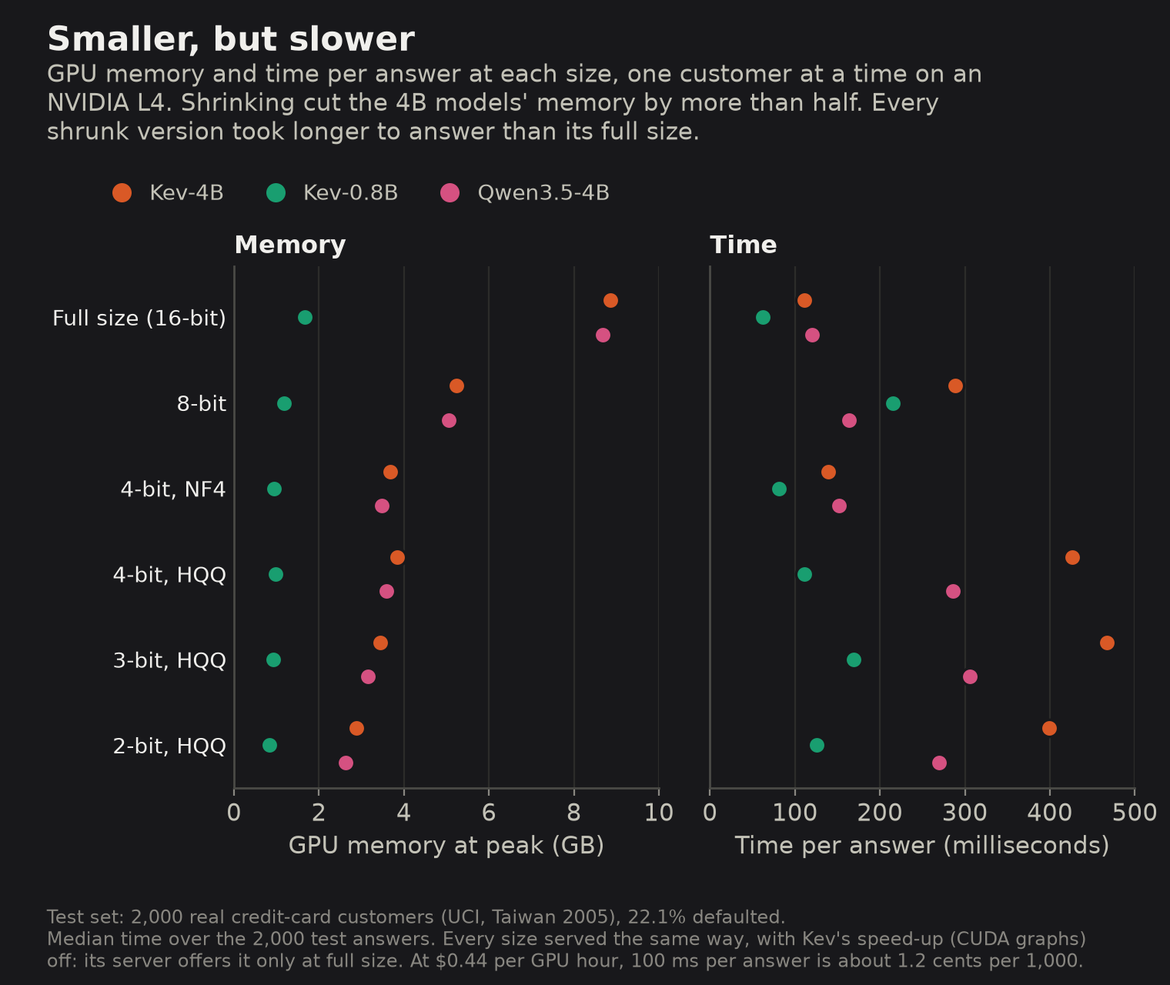
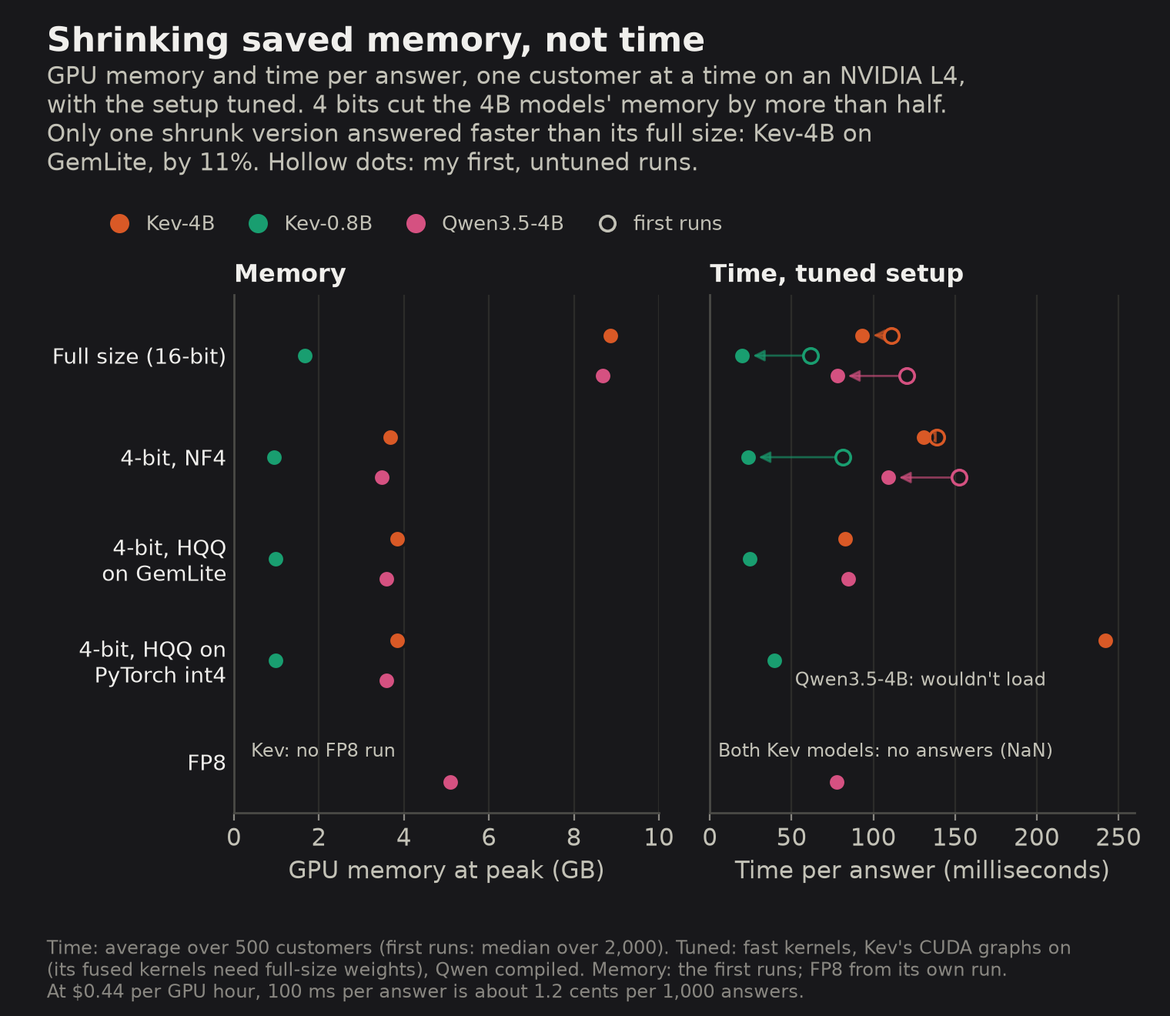
Post 4, version 2: speed section rewritten from the tuned re-runs; cost chart redrawn
New title ("I shrank AI models. It saved memory, not time.") and subtitle. The speed
section reports session S: the setup mattered more than size, NF4 18-40% slower,
GemLite faster only for Kev-4B (11%), FP8 level with Qwen's full size, three
recorded failures. post4_cost now shows time on the tuned setup with the first
runs as hollow dots. Four speed predictions, a bank bullet, speed limitations and
the re-run method added. Review copy version 2 is blog PR #48.

diff --git a/analysis/quantization_figures.py b/analysis/quantization_figures.py
@@ -7,7 +7,8 @@
   in by chance; the 2-bit values are off the scale and written out.
 - post4_drift.png: Kev-0.8B's answer for each test customer, full size against four shrunk
   versions, with how far the answers moved and the ranking and honesty that hid it.
-- post4_cost.png: GPU memory at peak and median time per answer at each size.
+- post4_cost.png: GPU memory at peak and time per answer on the tuned setup (the speed addendum,
+  results/speed_throughput.csv), with the first runs' times for the same weights as hollow dots.
 
     uv run python analysis/quantization_figures.py drift cost   # only these
 
@@ -240,49 +241,97 @@ def drift(dark: bool = False) -> Path:
     return F.save(fig, "post4_drift.png")
 
 
-# ---- 4. memory and time per answer ---------------------------------------------------------------
+# ---- 4. memory and time per answer, on the tuned setup (the speed addendum) ---------------------
 
 COST_DY = {"kev-4b-ft": -0.2, "kev-0.8b-ft": 0.0, "qwen-ft": 0.2}  # row offsets, so dots don't hide
+SPEED_ROWS = (  # (speed tag, post 4 weights it uses, row label)
+    ("bf16-tuned", "bf16", "Full size (16-bit)"),
+    ("bnb-nf4-tuned", "bnb-nf4", "4-bit, NF4"),
+    ("hqq-4-gemlite", "hqq-4", "4-bit, HQQ\non GemLite"),
+    ("hqq-4-aoint4", "hqq-4", "4-bit, HQQ on\nPyTorch int4"),
+    ("fp8-dynamic", None, "FP8"),
+)
+SPEED_THROUGHPUT = Q.ROOT / "results" / "speed_throughput.csv"
+SPEED_CSV = Q.ROOT / "results" / "speed.csv"
+
+
+@cache
+def speed_ms() -> dict[str, float]:
+    """Average time per answer, one customer at a time, on the tuned setup: {contestant: ms}."""
+    with SPEED_THROUGHPUT.open(encoding="utf-8") as f:
+        return {r["contestant"]: 1000 / float(r["customers_per_second"])
+                for r in csv.DictReader(f) if r["batch"] == "1"}  # fmt: skip
+
+
+@cache
+def speed_peak_gib() -> dict[str, float]:
+    with SPEED_CSV.open(encoding="utf-8") as f:
+        return {r["contestant"]: float(r["gpu_peak_gb"]) for r in csv.DictReader(f)}
 
 
 def cost(dark: bool = False) -> Path:
     F.set_theme(dark)
     plt = F.plt
-    fig, (left, right) = plt.subplots(1, 2, figsize=(7.6, 6.4), sharey=True)
-    fig.subplots_adjust(left=0.2, right=0.97, top=0.73, bottom=0.2, wspace=0.12)
+    fig, (left, right) = plt.subplots(1, 2, figsize=(7.6, 6.6), sharey=True)
+    fig.subplots_adjust(left=0.2, right=0.97, top=0.71, bottom=0.2, wspace=0.12)
+    ms, peak = speed_ms(), speed_peak_gib()
     for model, key, _name in MODELS:
         col = F.COLOR[key]
-        for y, size in enumerate(SIZES):
+        for y, (tag, base, _label) in enumerate(SPEED_ROWS):
             yy = y + COST_DY[model]
-            left.plot(GB * value(model, size, "gpu_peak_gb"), yy, "o", ms=8, color=col,
-                      mec=F.SURFACE, mew=1.2, zorder=3)  # fmt: skip
-            right.plot(value(model, size, "latency_ms_median"), yy, "o", ms=8, color=col,
-                       mec=F.SURFACE, mew=1.2, zorder=3)  # fmt: skip
+            # Memory: the first runs' measurement of the same weights (every version served the
+            # same way there); FP8 has no first run, so its own run (Qwen, in-process).
+            gib = value(model, base, "gpu_peak_gb") if base else peak.get(f"{model}-{tag}")
+            if gib is not None:
+                left.plot(GB * gib, yy, "o", ms=8, color=col, mec=F.SURFACE, mew=1.2, zorder=3)
+            t = ms.get(f"{model}-{tag}")
+            if t is not None:
+                right.plot(t, yy, "o", ms=8, color=col, mec=F.SURFACE, mew=1.2, zorder=3)
+            if tag in ("bf16-tuned", "bnb-nf4-tuned"):  # the same weights, timed in the first runs
+                t0 = value(model, base, "latency_ms_median")
+                right.plot(t0, yy, "o", ms=7, mfc="none", mec=col, mew=1.3, zorder=3)
+                right.annotate("", (t, yy), xytext=(t0, yy), zorder=2,
+                               arrowprops={"arrowstyle": "-|>", "color": col, "lw": 1,
+                                           "alpha": 0.6, "shrinkA": 4, "shrinkB": 5})  # fmt: skip
+    failed = {"hqq-4-aoint4": (COST_DY["qwen-ft"], "Qwen3.5-4B: wouldn't load"),
+              "fp8-dynamic": (-0.1, "Both Kev models: no answers (NaN)")}  # fmt: skip
+    for y, (tag, _base, _label) in enumerate(SPEED_ROWS):
+        if tag in failed:
+            dy, text = failed[tag]
+            x0 = 5 if tag == "fp8-dynamic" else 52
+            right.text(x0, y + dy, text, fontsize=8.5, color=F.INK_2, va="center")
+    left.text(0.4, len(SPEED_ROWS) - 1 - 0.1, "Kev: no FP8 run", fontsize=8.5, color=F.INK_2,
+              va="center")  # fmt: skip
     for ax in (left, right):
         ax.grid(axis="y", visible=False)
         ax.tick_params(axis="y", length=0, labelsize=10, labelcolor=F.INK)
-    left.set_yticks(range(len(SIZES)), [ROW[s] for s in SIZES])
-    left.set_ylim(len(SIZES) - 0.5, -0.6)
+    left.set_yticks(range(len(SPEED_ROWS)), [label for _t, _b, label in SPEED_ROWS])
+    left.set_ylim(len(SPEED_ROWS) - 0.5, -0.6)
     left.set_xlim(0, 10)
     left.set_xlabel("GPU memory at peak (GB)")
-    right.set_xlim(0, 500)
+    right.set_xlim(0, 260)
     right.set_xlabel("Time per answer (milliseconds)")
     left.set_title("Memory", loc="left", fontsize=11.5)
-    right.set_title("Time", loc="left", fontsize=11.5)
+    right.set_title("Time, tuned setup", loc="left", fontsize=11.5)
     handles = [plt.Line2D([], [], marker="o", ls="none", ms=8, color=F.COLOR[key], label=name)
                for _model, key, name in MODELS]  # fmt: skip
-    left.legend(handles=handles, loc="lower left", bbox_to_anchor=(-0.36, 1.08), ncol=3,
-                fontsize=10, handletextpad=0.3, columnspacing=1.4)  # fmt: skip
-    F.header(fig, "Smaller, but slower",
-             "GPU memory and time per answer at each size, one customer at a time on an\n"
-             "NVIDIA L4. Shrinking cut the 4B models' memory by more than half. Every\n"
-             "shrunk version took longer to answer than its full size.")  # fmt: skip
+    handles.append(plt.Line2D([], [], marker="o", ls="none", ms=7, mfc="none", mec=F.INK_2,
+                              mew=1.3, label="first runs"))  # fmt: skip
+    left.legend(handles=handles, loc="lower left", bbox_to_anchor=(-0.36, 1.08), ncol=4,
+                fontsize=9.5, handletextpad=0.3, columnspacing=1.1)  # fmt: skip
+    gain = ms["kev-4b-ft-hqq-4-gemlite"] / ms["kev-4b-ft-bf16-tuned"]
+    F.header(fig, "Shrinking saved memory, not time",
+             "GPU memory and time per answer, one customer at a time on an NVIDIA L4,\n"
+             "with the setup tuned. 4 bits cut the 4B models' memory by more than half.\n"
+             "Only one shrunk version answered faster than its full size: Kev-4B on\n"
+             f"GemLite, by {100 * (1 - gain):.0f}%. Hollow dots: my first, untuned runs.",
+             )  # fmt: skip
     F.footer(fig, "\n".join((
-        TEST_LINE,
-        "Median time over the 2,000 test answers. Every size served the same way, with Kev's "
-        "speed-up (CUDA graphs)",
-        "off: its server offers it only at full size. At $0.44 per GPU hour, 100 ms per answer "
-        "is about 1.2 cents per 1,000.",
+        "Time: average over 500 customers (first runs: median over 2,000). Tuned: fast kernels, "
+        "Kev's CUDA graphs on",
+        "(its fused kernels need full-size weights), Qwen compiled. Memory: the first runs; FP8 "
+        "from its own run.",
+        "At $0.44 per GPU hour, 100 ms per answer is about 1.2 cents per 1,000 answers.",
     )))  # fmt: skip
     return F.save(fig, "post4_cost.png")
 

diff --git a/writeup/quantization_post.md b/writeup/quantization_post.md
@@ -1,14 +1,12 @@
-# I shrank AI models to save money. They stayed honest, and got slower.
+# I shrank AI models. It saved memory, not time.
 
-<!-- PENDING (2026-11-26): title, subtitle and the speed section wait for the extra speed runs (STATUS.md, PLAN.md §12 post 4 addendum). The review panel found "stayed honest" overclaims (both Kev models are outside the chance band at full size) and the title is over LinkedIn's 58-character document limit. -->
-
-*Three trained models, squeezed to 8, 4, 3 and 2 bits. Their percentages held up longer than I expected, their speed didn't, and the summary scores hid how far each customer's number moved.*
+*Three trained models, squeezed to 8, 4, 3 and 2 bits. Their percentages held up to 4 bits, but the summary scores hid how far each customer's number moved. And even on a tuned GPU, the smaller models were rarely faster.*
 
 Save a photo at a lower quality setting and, for a while, you can't tell the difference. Then, past some point, it turns into blocks.
 
 AI models get compressed the same way. A model is billions of numbers, each normally stored in 16 bits, enough for about 65,000 different values. Shrinking a model rounds those numbers more coarsely, like rounding every price in a shop to the nearest ten cents, then the nearest dollar, then the nearest ten dollars. It's called [quantization](https://huggingface.co/docs/transformers/main/en/quantization/overview), and it lets a model fit on a smaller, cheaper GPU, the chip that runs it. The usual check afterwards is whether the model still gets the answers right.
 
-This series checks something else: whether a model's percentages come true. In [my last post](https://nishzsche.github.io/2026/11/25/fair-fight/), I trained four AI models on 20,000 credit-card customers whose outcomes were known, and they ranked customers about as well as the models banks use. This time I shrank three of them, and asked the same 2,000 test customers the same question: how likely is this customer to miss next month's payment? Would the shrunk models still be honest, and would they really be cheaper to run?
+This series checks something else: whether a model's percentages come true. In [my last post](https://nishzsche.github.io/2026/11/25/fair-fight/), I trained four AI models on 20,000 credit-card customers whose outcomes were known, and they ranked customers about as well as the models banks use. This time I shrank three of them, and asked the same 2,000 test customers the same question: how likely is this customer to miss next month's payment? Would the shrunk models' percentages hold up, and would they really be cheaper to run?
 
 | Size | Values each number can take | Memory for the two 4B models' numbers |
 |---|---|---|
@@ -88,51 +86,61 @@ Even 8 bits changed more decisions than running the same model twice. At 3 bits,
 
 If the lender instead re-chooses each version's cut-off on customers whose outcomes are known, every version down to 3 bits earns about the same: 282 to 304 per 1,000, against 287 to 300 at full size. At 2 bits, little or nothing: −10 to 73.
 
-## Smaller, but slower
+## Smaller, but not faster
 
-<!-- PENDING (2026-11-26): this section is rewritten after the extra speed runs. The review panel found the setup untuned: every version, full size included, ran two kinds of layers (causal_conv1d, chunk_gated_delta_rule) on slow reference code, the shrunk versions used no fused low-bit kernels, and post 3's Kev-4B gained only 5% from CUDA graphs (106 vs 111 ms), so the earlier overhead explanation was wrong and has been removed. The numbers below are from that setup. -->
+Now the reason to shrink a model at all: cost. A rented GPU bills by the minute, so the faster a model answers, the cheaper each decision.
 
-Now the reason to shrink a model at all: cost.
+My first runs said every shrunk version was slower, some up to 4 times. A review of my draft pointed out that the setup held every version back, full size included. Two kinds of layers in these models ran on slow stand-in code, the shrunk versions used each library's general-purpose route, and Kev's server shortcut was off. (The shortcut, CUDA graphs, records the GPU's sequence of steps once and replays it for every request.)
 
-![GPU memory at peak and median time per answer at each size. Memory falls with every step: the 4B models go from 8.7 to 8.9 GB at full size to 3.5 to 3.9 GB at 4 bits and 2.6 to 2.9 GB at 2 bits, and Kev-0.8B from 1.7 GB to under 1 GB at 4 bits. Time per answer rises at every shrunk size: at full size, 62 ms for Kev-0.8B, 111 ms for Kev-4B and 120 ms for Qwen; at 4-bit NF4, 81, 139 and 152 ms; at 8 bits up to 289 ms; at HQQ 3 bits up to 467 ms for Kev-4B.](../results/figures/post4_cost.png)
+So I rented the GPU again and set it up the way you would before deploying:
+
+- **Fast versions of those layers,** small programs written for one job on the GPU, for every model. Kev's shortcut was on for every version; its server offers it only at full size, so I switched it on for the shrunk ones myself. Kev's own combined kernels, which work only on full-size numbers, were on at full size. Qwen was compiled for the GPU.
+- **The same 4-bit HQQ numbers on two faster routes:** GemLite, a library built for fast low-bit maths, and PyTorch's own 4-bit route.
+- **FP8,** where the GPU does its arithmetic in 8 bits, not just stores the numbers that way. The L4 has hardware for it, and it needs no data either.
+
+![GPU memory at peak and time per answer, one customer at a time, on the tuned setup. Memory: the 4B models need 8.7 to 8.9 GB at full size and 3.5 to 3.9 GB at 4 bits; Kev-0.8B 1.7 GB and about 1 GB; Qwen with FP8 5.1 GB. Time per answer at full size: 20 ms for Kev-0.8B, 93 for Kev-4B and 78 for Qwen, down from 62, 111 and 120 in my first runs. 4-bit NF4: 23, 131 and 109 ms, down from 81, 139 and 152. 4-bit HQQ on GemLite: 24, 83 and 85 ms. On PyTorch's 4-bit route: 39 ms for Kev-0.8B and 242 for Kev-4B; Qwen wouldn't load. FP8: 77 ms for Qwen; both Kev models gave no answers.](../results/figures/post4_cost.png)
 
 - **Memory fell as promised.** At 4 bits the two 4B models needed 3.5 to 3.9 GB at peak instead of 8.7 to 8.9, less than half.
-- **On this setup, every shrunk version was slower.**
-  - 4-bit NF4 was a quarter to a third slower: Kev-4B went from 111 to 139 milliseconds per answer, Qwen from 120 to 152 and Kev-0.8B from 62 to 81.
-  - 8 bits took 1.4 to 3.5 times as long.
-  - HQQ took up to about 4 times as long: 426 milliseconds for Kev-4B at 4 bits, 467 at 3.
+- **Tuning the setup mattered more than shrinking.** At full size, Kev-0.8B went from 62 milliseconds per answer to 20, Qwen from 120 to 78 and Kev-4B from 111 to 93. (The first runs timed answers during scoring, the new ones in a separate timing run, so take those gaps as rough.)
+- **Once tuned, shrinking still rarely saved time.** NF4 was 18% slower than full size for Kev-0.8B and 40% slower for the two 4B models. The fastest 4-bit route, GemLite, beat full size only for Kev-4B, by 11% (83 milliseconds against 93), and was slower for Kev-0.8B (24 against 20) and Qwen (85 against 78). FP8 ran Qwen at the same speed as full size, 77 milliseconds against 78.
+- **Three runs failed, and I recorded them rather than swapping in something else.** FP8 gave no answers on either Kev model (NaN, "not a number"), and PyTorch's 4-bit route wouldn't load Qwen with the newer PyTorch it needs. Where that route did run, it was the slowest: 2 to 2.6 times as long as full size.
+- **The fast routes gave the same answers.** On GemLite and on PyTorch's route, both Kev models' answers were 0.1 points from the slow route's on average; Qwen's on GemLite, 0.5. FP8 moved Qwen's answers about as much as 8 bits did, 1.0 points per customer against 0.8, and its honesty change was within chance: 2.4 points off at full size, 1.6 with FP8.
 
-A rented GPU bills by the minute, so per decision, slower means more expensive. Kev-4B cost 1.3 cents per 1,000 decisions at full size, and 5.2 cents at 4-bit HQQ.
+What about scoring many customers at once, as an overnight batch would? At 32 at a time, full size was still the cheapest for both Kev models: 0.67 cents per 1,000 answers for Kev-4B, against 0.90 for its fastest 4-bit version. Qwen got no faster in batches in my setup, so its cheapest was one at a time: 0.95 cents per 1,000, at full size or with FP8.
 
-Kev's own server also has a shortcut, called CUDA graphs, that records the GPU's sequence of steps once and replays it for every request. It offers it only for full-size models. With it on, the last post's full-size Kev-0.8B answered in 24 milliseconds instead of 62. Kev-4B gained much less: 106 instead of 111. (To compare sizes fairly, I measured every version here with the shortcut off.)
+So the saving is memory, and memory pays only if it lets you rent a smaller GPU or fit more models on one. Here, all three already fit on the L4 at full size. Why shrinking didn't buy speed, I can't say: I didn't measure where the time goes.
 
 ## I got most of my predictions wrong, again
 
-Before any of these runs, I [wrote down](https://github.com/nishzsche/can-ai-know-when-its-wrong/blob/main/PREDICTIONS.md) what I expected:
+Before any of these runs, I [wrote down](https://github.com/nishzsche/can-ai-know-when-its-wrong/blob/main/PREDICTIONS.md) what I expected. After the first runs, and before the speed re-runs, I added four guesses about speed:
 
 | My guess | What happened |
 |---|---|
 | Honesty would get clearly worse already at 8 bits | ✗ At 8 bits every model stayed within half a point of full size. Above 2 bits, the only honesty change bigger than chance was an improvement. The first clear break came at 2 bits |
 | Ranking would hold at 4 bits for all three | ✓ Within 0.005, with either tool |
-| 4-bit NF4 would be faster than full size | ✗ A quarter to a third slower, for all three, on the setup tested <!-- PENDING: revisit after the speed runs --> |
+| 4-bit NF4 would be faster than full size | ✗ Slower for all three, by 18 to 40% on the tuned setup |
 | Qwen would hold up best, its percentages changing least | ✗ Not quite. Kev-4B changed least at 8 and 4 bits (0.3 to 1.1 points per customer). Qwen changed least at 3 bits (4.0 points), then broke hardest at 2 (49) |
+| With fast routes, 4 bits would answer one customer faster than a tuned full-size model | ✗ Only Kev-4B on GemLite, by 11%. Kev-0.8B and Qwen stayed slower |
+| FP8 would be faster than full size | ✗ The same speed for Qwen. It gave no answers on either Kev model |
+| FP8 would change honesty no more than 8 bits did | ✓ For Qwen, the only model it ran on: a change within chance, as with 8 bits, and answers moving about as far (1.0 points per customer against 0.8) |
+| 4-bit NF4 would be cheapest at 32 customers at a time | ✗ Full size was, for both Kev models. NF4 was cheapest only for Qwen, whose other versions slowed down in batches |
 
 ## What I'd tell a bank
 
 - **Treat shrinking as a material model change, not an IT change.** Agree tolerances first: how many decisions may change, how far any one customer may move, how far the calibration slope and the spread of scores may shift. Most of this needs no outcomes: score the same customers with both versions on day one. Then revalidate, and re-set the cut-off and any calibration through the usual approval process.
 - **8 bits and the common 4-bit format passed here.** The average customer moved less than a point, though a few moved up to 9. That tells you where to start testing, not whether to skip it.
 - **The tool matters as much as the size, at least here.** At the same 4 bits, HQQ moved the answers 1.5 to 3.2 times as much as NF4. One likely reason: NF4 spaces its 16 levels to match the bell-shaped spread of a model's numbers, while HQQ spaces them evenly.
-- **Record the whole setup with every score.** Each prediction here carries its size and library versions. Record the GPU, the kernels and the drivers too, and treat a library upgrade as a model change: the same full-size Qwen, run a second way, changed 1.4% of decisions.
-
-<!-- PENDING: a speed and cost bullet, after the speed runs. -->
+- **Record the whole setup with every score.** Each prediction here carries its size and library versions. Record the GPU, the kernels and the drivers too, and treat a library upgrade as a model change: the same full-size Qwen, run a second way, changed 1.4% of decisions. Even the batch size matters: scoring Qwen 8 or 32 customers at a time moved its answers by up to 3 points (5 with FP8), against under 1 for Kev.
+- **Price the saving on your own setup before counting on it.** Shrinking cut memory by more than half every time. On a tuned GPU it beat full size's speed in one case out of nine, by 11%, and matched it in one more. Tuning the setup changed speed by up to three times, more than any size did. If the reason to shrink is cost, the saving comes from a smaller or shared GPU, so that's what to price.
 
 ## What this test can't tell you
 
-- **Three models, one dataset, one way of serving:** a bank in Taiwan in 2005, one NVIDIA L4 GPU, one customer at a time. <!-- PENDING: speed limitations after the speed runs. -->
+- **Three models, one dataset, one GPU:** a bank in Taiwan in 2005 and one NVIDIA L4.
+- **Speed depends on the whole setup.** A bigger GPU, a serving engine such as vLLM, or methods with their own fast kernels could change which version is fastest. Each speed figure is one timing run over 500 customers, so a gap like Kev-4B's 11% is a single measurement. Qwen's batches ran through my own code, which may be why batching didn't speed it up.
 - **Only methods that need no data.** Methods that tune their rounding on sample data, such as GPTQ and AWQ, often do better at 3 and 4 bits. I didn't test them.
 - **One training run per model.** Retraining alone moved Kev-0.8B's honesty by 1.2 to 1.5 points in the last post, as much as most of the shrinking did here.
 - **Shrunk after training.** Training a model that's already shrunk, or keeping the training update separate and full size, could behave differently.
-- **A use its maker doesn't support.** Kev's maker doesn't offer shrinking, so I wrapped its loader myself. Running a vendor's model in a way it doesn't support is a risk of its own.
+- **A use its maker doesn't support.** Kev's maker doesn't offer shrinking, so I wrapped its loader myself, and switched on its server's shortcut for the shrunk versions. Running a vendor's model in a way it doesn't support is a risk of its own.
 - **Fair lending isn't tested.** At 3 bits, 10 to 20 in 100 decisions changed. I haven't checked whether those customers differ by group.
 - **Small gaps between models are hard to see.** With 2,000 test customers, ranking gaps under about 0.02 between different models can't be told apart; a model compared with itself is measured far more precisely, to about 0.004. These test customers have also now been used in four posts. 6,000 customers that no model has seen are kept aside for one final replication.
 - **"Default" is the dataset's label:** missing next month's payment, not the 90-days-overdue definition banks use for capital.
@@ -140,6 +148,8 @@ Before any of these runs, I [wrote down](https://github.com/nishzsche/can-ai-kno
 ## How I ran it
 
 Each model was merged with its training update first and then shrunk, so the result is one model, as you'd deploy it. The part of each model that turns its reading into a probability stays full size. Both tools' versions are pinned and recorded in every prediction. Before any full run of a shrunk model, the full-size version had to reproduce the last post's predictions through the new code, and it did: on 50 check customers, within 0.002 on average. Scoring took 72,000 predictions and about 4.3 hours of GPU time, about $1.90. The measures were fixed before the runs, except three I added later: the lending-decision counts and the share of customers moving 5 points or more, while writing, and the paired test of honesty changes, after review.
+
+The speed re-runs used the same shrunk numbers, on a fresh GPU. Before any timing, the tuned full-size and NF4 versions had to reproduce the first runs' answers on 50 check customers, and they did: about 0.001 apart on average for Kev, 0.005 to 0.006 for Qwen. Each version was timed on the same 500 check customers, not test customers, at 1, 8 and 32 at a time. The re-runs took about 3.4 hours on the rented GPU, setup and a 37-minute restart included, about $1.50. Every library version is recorded with each prediction, and the three failures are recorded in the repository.
 
 ## What's next
 

diff --git a/STATUS.md b/STATUS.md
@@ -71,11 +71,11 @@ L4_RUNBOOK.md §8 on a fresh L4. Gate passed: the speed-run guesses are in `PRED
 
 - **`fp8-dynamic` failed (recorded, stage smoke)** the same way as Kev-0.8B: a NaN on the first request. Skipped.
 
-## Post 4 draft (2026-11-26): in the author's review
+## Post 4 draft (2026-11-26, version 2 on 2026-11-27): in the author's review
 
-`writeup/quantization_post.md`, "I shrank AI models to save money. They stayed honest, and got slower." About 2,400 words with tables and four charts (`analysis/quantization_figures.py` → `results/figures/post4_{ranking,honesty,drift,cost}.png`, light and dark).
+`writeup/quantization_post.md`, "I shrank AI models. It saved memory, not time." (46 characters, under LinkedIn's 58). About 3,500 words with tables and four charts (`analysis/quantization_figures.py` → `results/figures/post4_{ranking,honesty,drift,cost}.png`, light and dark).
 - **New measures, added while writing (the post says so):** `analysis/quantization.py` now also reports the lending-decision counts. These are the share of approve/decline decisions that differ from bf16 (each at its own tune cut-off), the shrunk model swapped in at bf16's tune cut-off (approval, profit, decisions changed), and the share of customers moved 5+ points. All existing columns are unchanged. The noise floor quoted in the post is two full-size runs (M6 against the session A bf16 re-run): 0.2% of decisions change for Kev and 1.4% for Qwen. It was computed in the session and isn't a column.
-- **Review copy:** https://nishzsche.github.io/review/shrinking-ai-models/ (unlisted, noindex), as post 3's was. It's on the blog's `dev` branch as `review/shrinking-ai-models.md`, with the charts in `public/images/shrinking-ai-models/`. Version 1 went live on 2026-11-26 (blog PR #47).
+- **Review copy:** https://nishzsche.github.io/review/shrinking-ai-models/ (unlisted, noindex), as post 3's was. It's on the blog's `dev` branch as `review/shrinking-ai-models.md`, with the charts in `public/images/shrinking-ai-models/`. Version 1 went live on 2026-11-26 (blog PR #47). Version 2 (blog PR #48, awaiting the author's merge) adds the speed rewrite and all the panel fixes, which version 1 predates.
 - **Review panel (2026-11-26).** Five agents: statistician, fact-checker, bank model-risk validator, editor, and ML engineer with hiring manager. Scores as drafted were 6.5–7 (hiring manager 7.5, "would interview"), and 8.5–9.5 with the fixes. Every number reproduced from the raw predictions. The drift section was called the best idea in the series. Must-fixes, now applied to the draft:
   - **Decisions table:** each row now sits at the full-size model's cut-off (`decisions_changed_bf16_cutoff`). Re-choosing the cut-off on tune flips 3.4% of Kev-0.8B's decisions on its own (post 3 against the bf16 re-run, at their own cut-offs), so the earlier own-cut-off rows were mostly cut-off noise.
   - **Honesty changes:** a paired bootstrap of the ECE change, Holm over 15, is now in `analysis/quantization.py` (`ece_vs_bf16*`). Above 2 bits, only Kev-0.8B at hqq-4 changed by more than chance (−2.2 points, Holm p 0.024). Qwen's hqq-4 rise (+0.8) and every 3-bit change are within chance. Qwen's mean shift (22.1% to 19.2%) is label-free and solid.
@@ -99,7 +99,14 @@ L4_RUNBOOK.md §8 on a fresh L4. Gate passed: the speed-run guesses are in `PRED
 - **The author's decision (2026-11-26): hold post 4 for extra speed runs** (PLAN.md §12, post 4 speed addendum). The title, subtitle, speed section, one predictions row and the speed bullets are marked PENDING in the draft. The live review copy is still version 1.
   - **Guesses:** committed before any speed run (9f415ea).
   - **Code:** built on the laptop, 213 tests (PLAN.md §12, the addendum's "Built" note).
-  - **Next:** L4 session S (L4_RUNBOOK.md §8), about 2–3 GPU hours plus setup, about $1–1.50. Then rewrite the speed section, title and pending lines; update the review copy to version 2; then the LinkedIn post, carousel, X post and social card.
+  - **Session S done** (see its section above). **Speed rewrite done (2026-11-27):**
+    - **New title and subtitle:** "stayed honest" dropped, because both Kev models are outside the chance band at full size.
+    - **Speed section, "Smaller, but not faster":** it says a review found the first setup untuned, then lists the tuned setup. That includes switching Kev's CUDA graphs on for the shrunk versions (an unsupported use, now in the limitations) and Kev's fused kernels at full size only.
+    - **What it reports:** the setup mattered more than size (62→20, 120→78, 111→93 ms at full size, with a caveat that the timing methods differ). NF4 was 18–40% slower. GemLite beat full size only for Kev-4B (−11%). FP8 matched Qwen's full size. Three failures are recorded. The fast routes give the same answers (0.1 points per customer for Kev, 0.5 for Qwen). At 32 at a time, full size is cheapest for both Kevs. The section gives no mechanism for the slowness ("I didn't measure where the time goes"), after two wrong explanations.
+    - **Cost chart redrawn:** `post4_cost.png` now shows memory (the first runs) and time on the tuned setup, with the first runs' times as hollow dots.
+    - **Predictions:** four rows added from the speed addendum. Bank advice gains a speed bullet and a batch-size line (batching moved Qwen's answers up to 3 points, 5 with FP8). Limitations gain a speed bullet. "How I ran it" gains the re-runs (reproduction, 500 tune customers, about 3.4 h, about $1.50).
+    - **Chart budget:** about 1,800 words follow the last chart (predictions, bank, limitations, method), well over STYLE's 600-word rule.
+  - **Next:** the author merges blog PR #48 and reviews version 2. Then the LinkedIn post, carousel, X post and social card. The blog session is moving `analysis/figures.py` to the new blog design (warm paper, larger small text). Post 4's charts stay in the current look until that design launches; then redraw them and check the layouts.
 - **Still to do after the author's review:** the LinkedIn post and its carousel (`writeup/STYLE.md`: 8–10 slides, a builder script), the X post, the social card, and the README and PLAN status.
 
 ## L4 session A done (2026-11-25 19:43 → 2026-11-26 01:30 IST)
